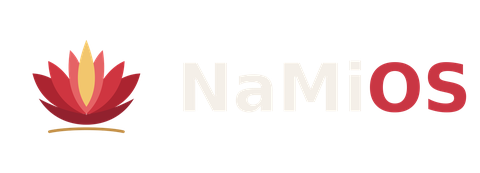
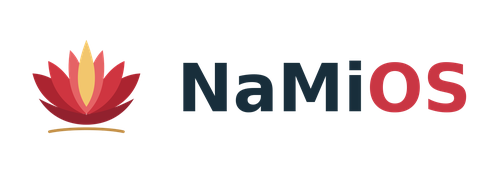
fix(brand): nen SANG NGA AM cho wallpaper/SDDM/Plymouth (sen quy khong dat nen den)
Phan hoi Cuong 09/11: hoa sen la hoa quy, KHONG dat tren nen den/muc dem.
- Wallpaper: nen gradient NGA AM (ivory #FBF8F2->#EFE3D1) + quang vang nhat
  nang hoa sen, chu 'NaMi' mau muc dam + 'OS' do son. Sang trong, hop van hoa Viet.
- SDDM: mau fallback #122A3A -> #F4EEE4 (nen login van dung wallpaper nga).
- Plymouth: splash doi sang nga am + chu muc, progress bar do son tren nen sang.
verified_on_host: NO (da xem truc quan wallpaper).

Changed region(s): [[0.375, 0.3468, 0.75, 0.6647]]

diff --git a/branding/wallpaper/make-wallpaper.py b/branding/wallpaper/make-wallpaper.py
@@ -1,21 +1,20 @@
 #!/usr/bin/env python3
 """Sinh hình nền mặc định NaMiOS từ bộ nhận diện v2 "Sen Việt"
-(branding/logo-sen-viet-v2/), THAY cho bộ "Sen bừng sáng" navy/jade cũ.
+(branding/logo-sen-viet-v2/).
 
-Nền gradient mực đêm (#122A3A, hơi sáng hơn ở nửa trên để có chiều sâu) +
-quầng sáng đỏ-son rất nhạt phía sau biểu tượng + biểu tượng sen Sen Việt
-(NaMiOS_Sen_Viet_Symbol_1024.png, raster PNG có sẵn — KHÔNG rasterize SVG,
-môi trường build không có cairosvg/rsvg/inkscape) đặt lệch trái + chữ
-"NaMiOS" tự vẽ bằng Pillow ("NaMi" màu sáng, "OS" màu đỏ son #C93643) +
-khẩu hiệu nhỏ "Nét sen Việt, mở tương lai." phía dưới.
+QUYẾT ĐỊNH THIẾT KẾ (Cuong 09/11/2026): "hoa sen là loài hoa quý, KHÔNG đặt
+trên nền đen/mực đêm". => Nền hình nền đổi sang NGÀ ẤM (ivory) sang trọng,
+sáng nhẹ, hợp văn hoá Việt (sen hồng/đỏ trên nền sáng) thay cho nền mực đêm.
 
-Font: DejaVu Sans / DejaVu Sans Bold (branding/fonts/, copy từ gói
-matplotlib mpl-data đã cài sẵn trong sandbox — ĐÚNG font mà
-branding/logo-sen-viet-v2/README.md ghi là font mẫu dùng trong các SVG v2,
-và trùng gói fonts-dejavu-core đã có trong
-distro/live-build/config/package-lists/0300-fonts.list.chroot — không thêm
-font lạ/không rõ quyền phân phối). Phủ đủ dấu tiếng Việt (đã kiểm bằng
-fontTools cmap trước khi chọn).
+Thành phần: nền gradient ngà ấm (sáng ở trên, ấm sâu hơn ở dưới) + một quầng
+ấm VÀNG rất nhạt "nâng" biểu tượng (không phải vệt tối) + biểu tượng sen Sen
+Việt (NaMiOS_Sen_Viet_Symbol_1024.png, raster PNG trong suốt — KHÔNG rasterize
+SVG vì build không có cairosvg/rsvg/inkscape) đặt lệch trái + chữ "NaMiOS" tự
+vẽ ("NaMi" màu chữ-mực #182E3B đậm đọc rõ trên nền sáng, "OS" đỏ son #C93643) +
+khẩu hiệu nhỏ "Nét sen Việt, mở tương lai." màu ấm dịu phía dưới.
+
+Font: DejaVu Sans / Bold (branding/fonts/, trùng fonts-dejavu-core trong
+package-lists/0300-fonts.list.chroot; phủ đủ dấu tiếng Việt).
 
 Tái lập: python3 branding/wallpaper/make-wallpaper.py
 Đầu ra:  distro/.../usr/share/backgrounds/namios/namios-default.png (2560x1440)
@@ -36,12 +35,13 @@ OUT = os.path.join(
 
 W, H = 2560, 1440
 
-# Bộ màu "Sen Việt" (branding/logo-sen-viet-v2/README.md) — jade cũ ĐÃ GỠ BỎ.
-INK_NAVY = (0x12, 0x2A, 0x3A)       # mực đêm — nền
-INK_NAVY_TOP = (0x1D, 0x3C, 0x4F)  # mực đêm sáng hơn một chút cho chiều sâu
-SON = (0xC9, 0x36, 0x43)           # đỏ son — chữ "OS", quầng sáng
-LIGHT = (0xF4, 0xEF, 0xE8)         # chữ sáng cho "NaMi" + khẩu hiệu
-TAGLINE_DIM = (0xC9, 0xC2, 0xB7)   # khẩu hiệu nhạt hơn chữ chính
+# Bộ màu "Sen Việt" (branding/logo-sen-viet-v2/README.md).
+IVORY_TOP = (0xFB, 0xF8, 0xF2)     # ngà sáng — nửa trên
+IVORY_BOT = (0xEF, 0xE3, 0xD1)     # ngà ấm sâu hơn — nửa dưới (chiều sâu)
+WARM_GLOW = (0xF2, 0xC6, 0x6D)     # vàng tâm — quầng ấm rất nhạt nâng biểu tượng
+SON = (0xC9, 0x36, 0x43)           # đỏ son — chữ "OS"
+INK_TEXT = (0x18, 0x2E, 0x3B)      # chữ mực — "NaMi" đọc rõ trên nền sáng
+TAGLINE_DIM = (0x8A, 0x7E, 0x6A)   # khẩu hiệu ấm dịu
 
 
 def _gradient() -> Image.Image:
@@ -49,9 +49,9 @@ def _gradient() -> Image.Image:
     px = img.load()
     for y in range(H):
         t = y / (H - 1)
-        r = int(INK_NAVY_TOP[0] + (INK_NAVY[0] - INK_NAVY_TOP[0]) * t)
-        g = int(INK_NAVY_TOP[1] + (INK_NAVY[1] - INK_NAVY_TOP[1]) * t)
-        b = int(INK_NAVY_TOP[2] + (INK_NAVY[2] - INK_NAVY_TOP[2]) * t)
+        r = int(IVORY_TOP[0] + (IVORY_BOT[0] - IVORY_TOP[0]) * t)
+        g = int(IVORY_TOP[1] + (IVORY_BOT[1] - IVORY_TOP[1]) * t)
+        b = int(IVORY_TOP[2] + (IVORY_BOT[2] - IVORY_TOP[2]) * t)
         row = (r, g, b)
         for x in range(W):
             px[x, y] = row
@@ -59,15 +59,15 @@ def _gradient() -> Image.Image:
 
 
 def _glow(base: Image.Image, cx: int, cy: int) -> Image.Image:
-    """Quầng sáng đỏ-son rất nhạt phía sau biểu tượng (giữ tinh thần bản cũ,
-    đổi màu quầng sáng từ navy-light sang đỏ son mờ)."""
+    """Quầng ấm VÀNG rất nhạt phía sau biểu tượng để "nâng" hoa sen trên nền
+    sáng (không dùng vệt tối). Alpha thấp để tinh tế, không loang."""
     mask = Image.new("L", (W, H), 0)
     md = ImageDraw.Draw(mask)
-    maxr = 760
+    maxr = 820
     for rr in range(maxr, 0, -8):
-        a = int(42 * (1 - rr / maxr))
-        md.ellipse([cx - rr, cy - int(rr * 0.78), cx + rr, cy + int(rr * 0.78)], fill=a)
-    glow_layer = Image.new("RGB", (W, H), SON)
+        a = int(30 * (1 - rr / maxr))  # tối đa ~30/255 — rất nhạt
+        md.ellipse([cx - rr, cy - int(rr * 0.80), cx + rr, cy + int(rr * 0.80)], fill=a)
+    glow_layer = Image.new("RGB", (W, H), WARM_GLOW)
     return Image.composite(glow_layer, base, mask)
 
 
@@ -89,7 +89,7 @@ def main() -> None:
 
     draw = ImageDraw.Draw(base)
 
-    # "NaMiOS" — "NaMi" sáng + "OS" đỏ son, canh theo chiều cao biểu tượng.
+    # "NaMiOS" — "NaMi" chữ mực đậm (đọc rõ trên nền sáng) + "OS" đỏ son.
     word_size = 190
     f_word = ImageFont.truetype(FONT_BOLD, word_size)
     text_x = sym_x + sym_w + 90
@@ -99,7 +99,7 @@ def main() -> None:
     full_h = bbox_full[3] - bbox_full[1]
     text_y = cy - full_h // 2 - bbox_full[1]
 
-    draw.text((text_x, text_y), "NaMi", font=f_word, fill=LIGHT)
+    draw.text((text_x, text_y), "NaMi", font=f_word, fill=INK_TEXT)
     draw.text((text_x + nami_w, text_y), "OS", font=f_word, fill=SON)
 
     # Khẩu hiệu nhỏ bên dưới wordmark.

diff --git a/branding/plymouth/make-plymouth-assets.py b/branding/plymouth/make-plymouth-assets.py
@@ -37,11 +37,13 @@ OUT_DIR = os.path.join(
     "distro/live-build/config/includes.chroot/usr/share/plymouth/themes/namios",
 )
 
-# Mực đêm — khớp theme.conf BackgroundStartColor/EndColor (xem namios.plymouth).
-TOP = (0x1D, 0x3C, 0x4F)
-BOT = (0x12, 0x2A, 0x3A)
+# NGÀ ẤM — khớp theme.conf BackgroundStartColor/EndColor (xem namios.plymouth).
+# QĐ 09/11/2026 (Cuong): "hoa sen quý KHÔNG đặt trên nền đen" -> splash khởi
+# động đổi từ nền mực đêm sang nền ngà ấm sáng, đồng bộ với wallpaper desktop.
+TOP = (0xFB, 0xF8, 0xF2)   # ngà sáng — nửa trên
+BOT = (0xEF, 0xE3, 0xD1)   # ngà ấm — nửa dưới
 SON = (0xC9, 0x36, 0x43)   # đỏ son — chữ "OS"
-LIGHT = (0xF4, 0xEF, 0xE8)  # chữ sáng — "NaMi"
+INK = (0x18, 0x2E, 0x3B)   # chữ mực đậm — "NaMi" đọc rõ trên nền sáng
 
 BG_W, BG_H = 1920, 1080
 WATERMARK_W = 480  # = ProgressBarWidth trong theme.conf -> xếp thẳng cột
@@ -89,7 +91,7 @@ def _make_watermark() -> Image.Image:
     draw = ImageDraw.Draw(canvas)
     text_x = pad + sym_w + 36
     text_y = (canvas_h - text_h) // 2 - bbox_full[1]
-    draw.text((text_x, text_y), "NaMi", font=f, fill=LIGHT)
+    draw.text((text_x, text_y), "NaMi", font=f, fill=INK)
     draw.text((text_x + nami_w, text_y), "OS", font=f, fill=SON)
 
     out_h = round(canvas_h * WATERMARK_W / canvas_w)
